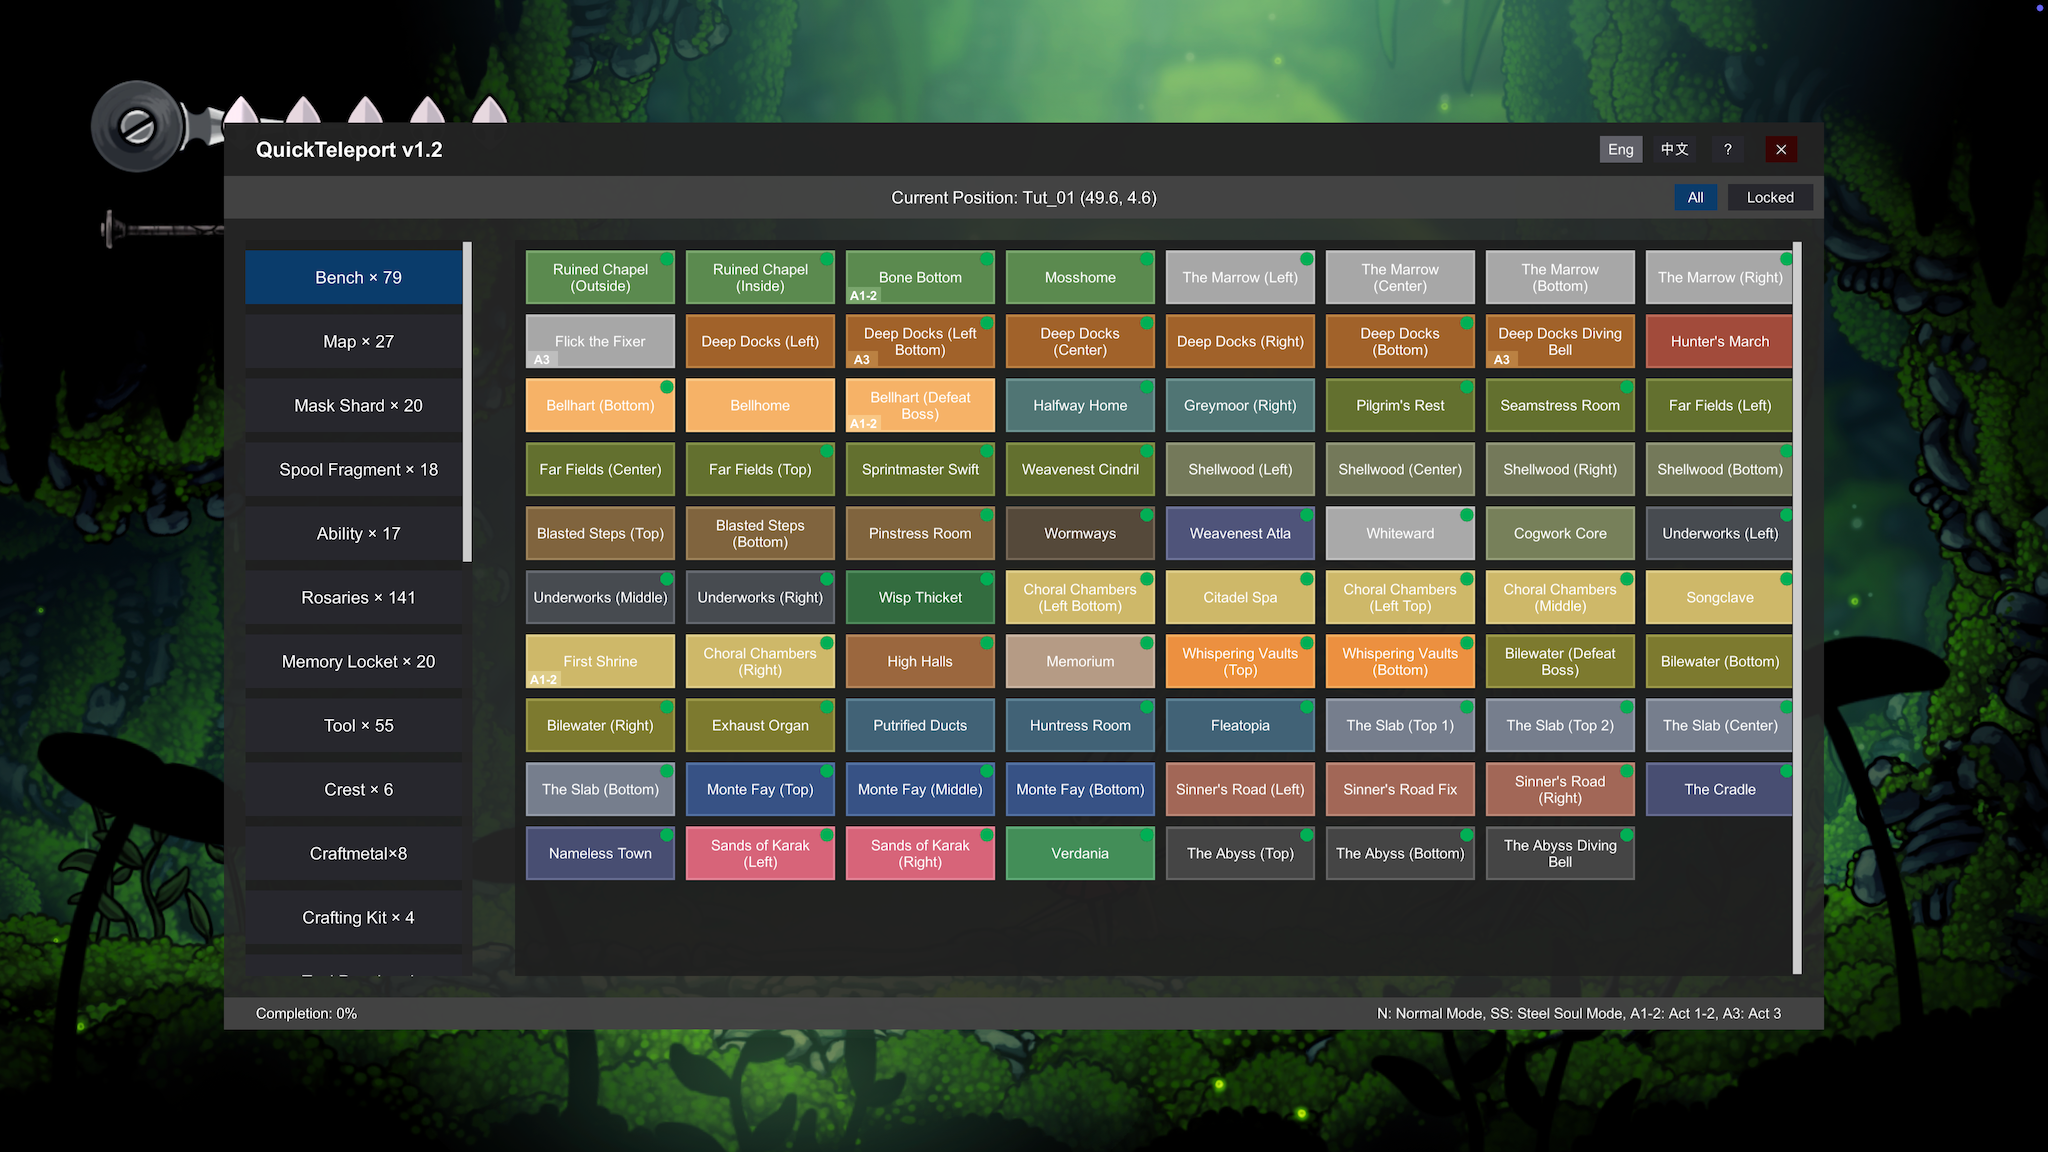
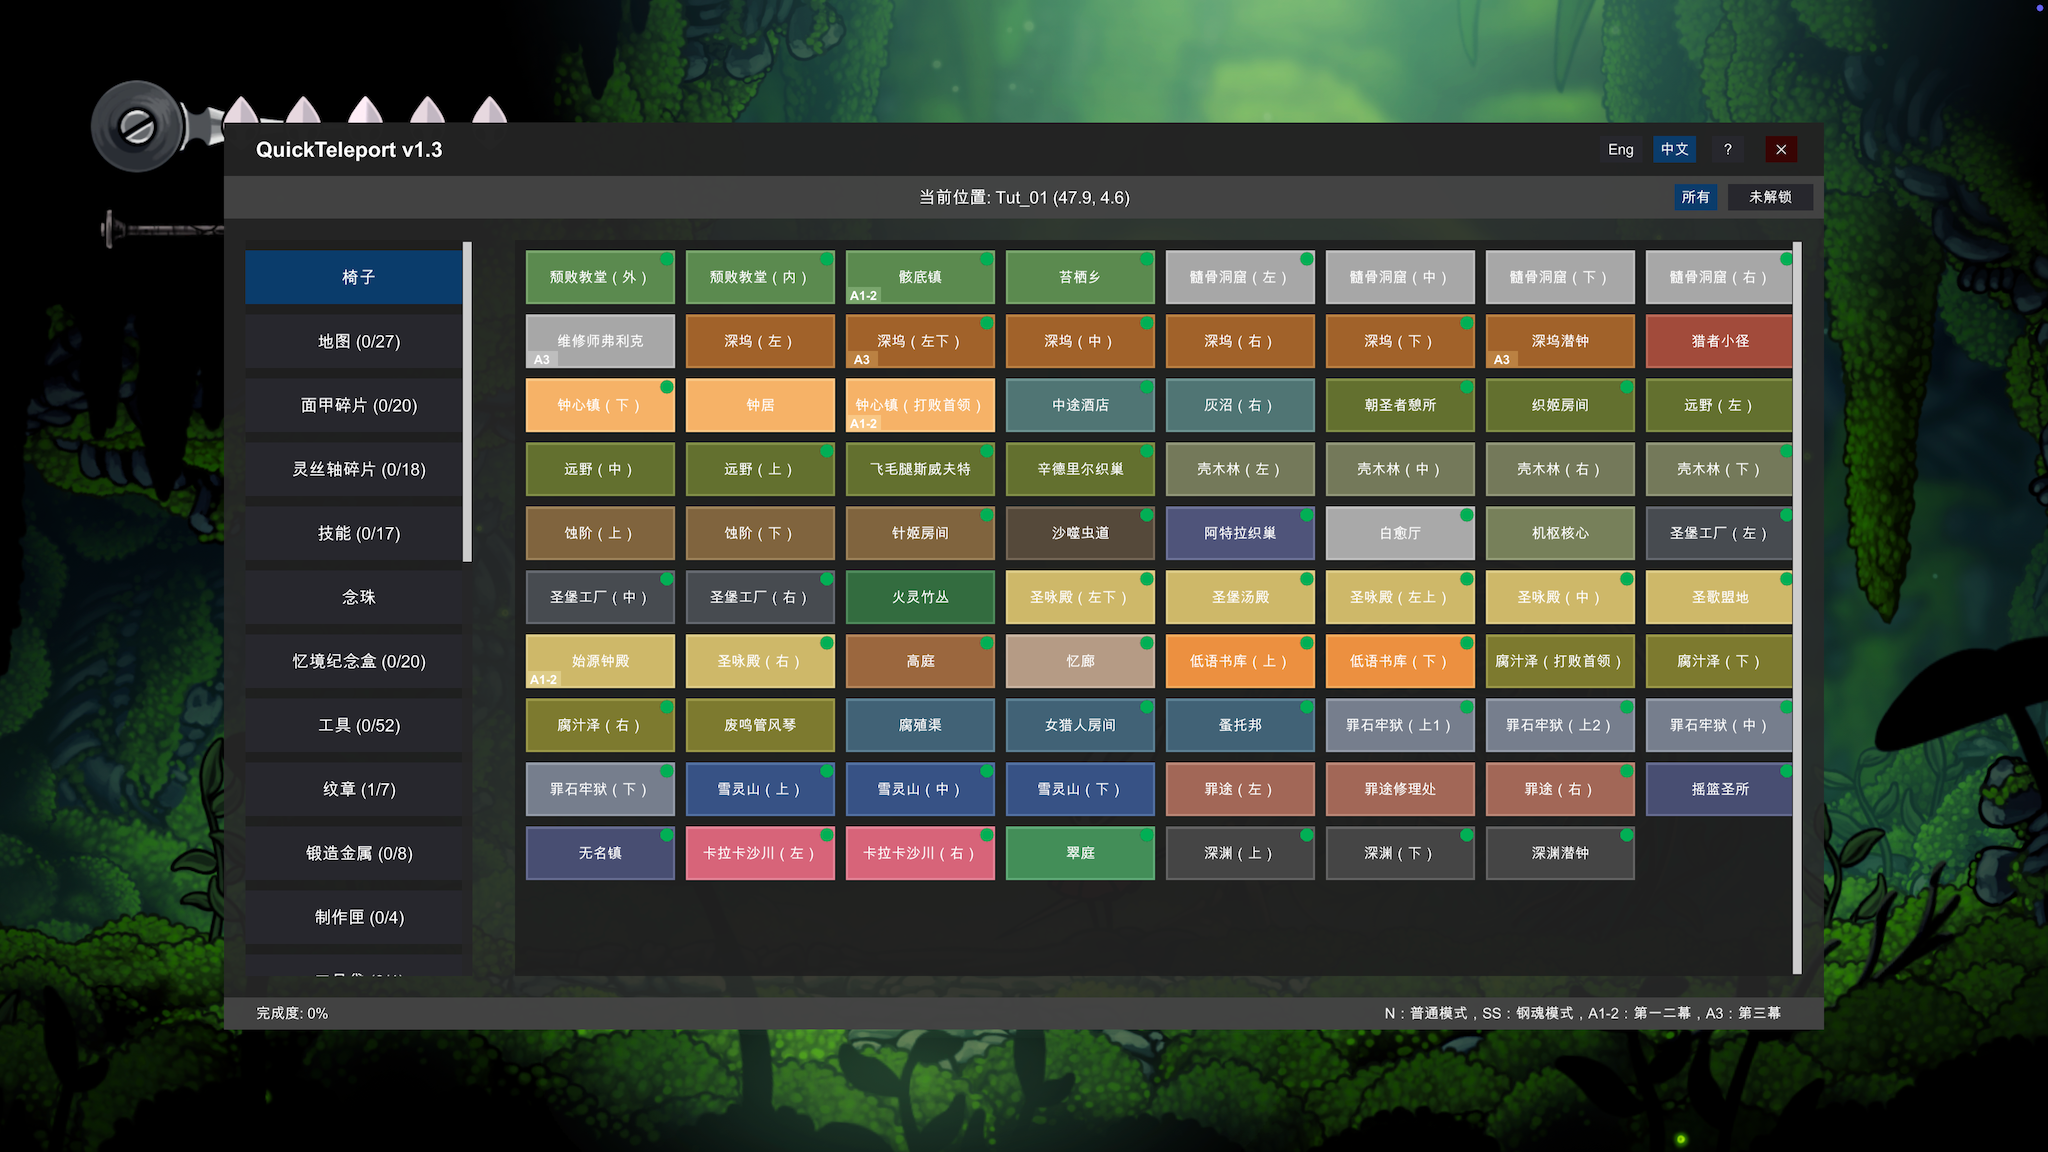
Update.
Update.

diff --git a/README.md b/README.md
@@ -28,7 +28,7 @@ Materium | 45
 Crafting Kit | 4
 Tool Pouch | 4
 Key | 12
-Pail Oil | 3
+Needle Upgrade | 3
 Relic | 15
 Silkeater | 10
 Enemy | 237
@@ -47,9 +47,9 @@ Misc. | 5
 
 ### Keyboard Controls
 
-Default shortcut `Ctrl + = [equal key]`.
+Default hotkey `Ctrl + = [equal key]`.
 
-### Modify Shortcut
+### Modify Hotkey
 
 - Modify the hotkeys via the `Configuration Manager`. In the game, press `F1` to open the `Configuration Manager` panel, find `QuickTeleport`, and modify the values for `Alt`, `Control`, `Shift`, and `ToggleUIKey`.
 
@@ -82,7 +82,8 @@ The project references this [MOD](https://github.com/Masaicker/TeleportMod-Silks
 ## Changelog
 
 ### 1.3
-* Modify shortcut keys.
+* Change MOD main UI hotkey in Configuration Manager.
+* Display group item collection progress.
 
 ### 1.2
 * Display item acquisition indicator.

diff --git a/README_zh.md b/README_zh.md
@@ -28,7 +28,7 @@
 制作匣 | 4
 工具袋 | 4
 钥匙 | 12
-苍白油 | 3
+织针升级 | 3
 遗物 | 15
 噬丝者 | 10
 敌人 | 237
@@ -82,7 +82,8 @@
 ## 更新记录
 
 ### 1.3
-* 修改快捷键。
+* 用配置管理器修改 MOD 主界面快捷键。
+* 显示分组获取进度。
 
 ### 1.2
 * 显示物品获取标识。
